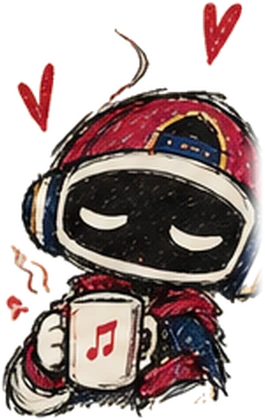
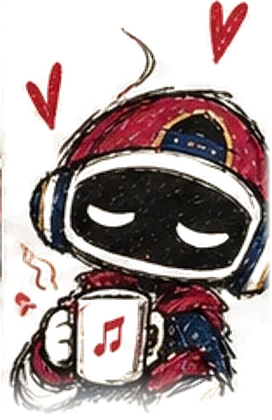
Paul do café (carregando): refeito inteiro a partir da folha original, sem corte (cache v205)
Claude-Session: https://claude.ai/code/session_017Ekti4Fp4m1UmNqhcHu5NP

diff --git a/sw.js b/sw.js
@@ -1,5 +1,5 @@
 // Service worker: cacheia só o "casco" do app (código + marca). Nenhum dado do usuário passa por aqui.
-const VERSION = 'beaterista-v204';
+const VERSION = 'beaterista-v205';
 const SHELL = [
   './', 'index.html', 'manifest.webmanifest', 'css/app.css', 'css/kids.css', 'css/lote2.css', 'css/lote3.css', 'css/audit.css', 'js/session.js', 'css/jogos.css', 'css/estudos.css', 'js/views/story.js', 'assets/story/meio-tom-branco.webp', 'assets/story/rasgado-cinza.webp', 'js/jogos/velha.js', 'js/jogos/velha-logic.js', 'js/jogos/velha-data.js', 'js/jogos/bingo.js', 'js/jogos/bingo-logic.js', 'js/jogos/bingo-art.js', 'js/jogos/cara.js', 'js/jogos/cara-logic.js', 'js/jogos/cara-data.js', 'js/jogos/quebra.js', 'js/jogos/quebra-logic.js', 'js/jogos/stop.js', 'js/jogos/stop-logic.js', 'assets/jogos/palco.webp', 'js/views/jogos.js', 'js/views/jogos-relatorio.js', 'js/jogos/base.js', 'js/jogos/domino.js', 'js/jogos/domino-logic.js', 'js/jogos/cartas.js', 'js/jogos/cartas-logic.js', 'aluno.html', 'js/aluno.js', 'js/aluno-boot.js', 'js/ranking.js', 'js/paul-talk.js', 'js/views/acessos.js', 'manifest-aluno.webmanifest', 'js/mic-access.js', 'js/views/ata.js', 'js/views/kids-relatorio.js', 'js/feedback.js', 'js/tips.js', 'js/tipbox.js', 'js/views/dicas.js', 'js/views/figuras-aprender.js', 'js/kids/ritmo.js', 'js/kids/memoria.js', 'js/kids/memory-themes.js',
   'js/app.js', 'js/util.js', 'js/db.js', 'js/store.js', 'js/auth.js', 'js/sync.js', 'js/config.js',
